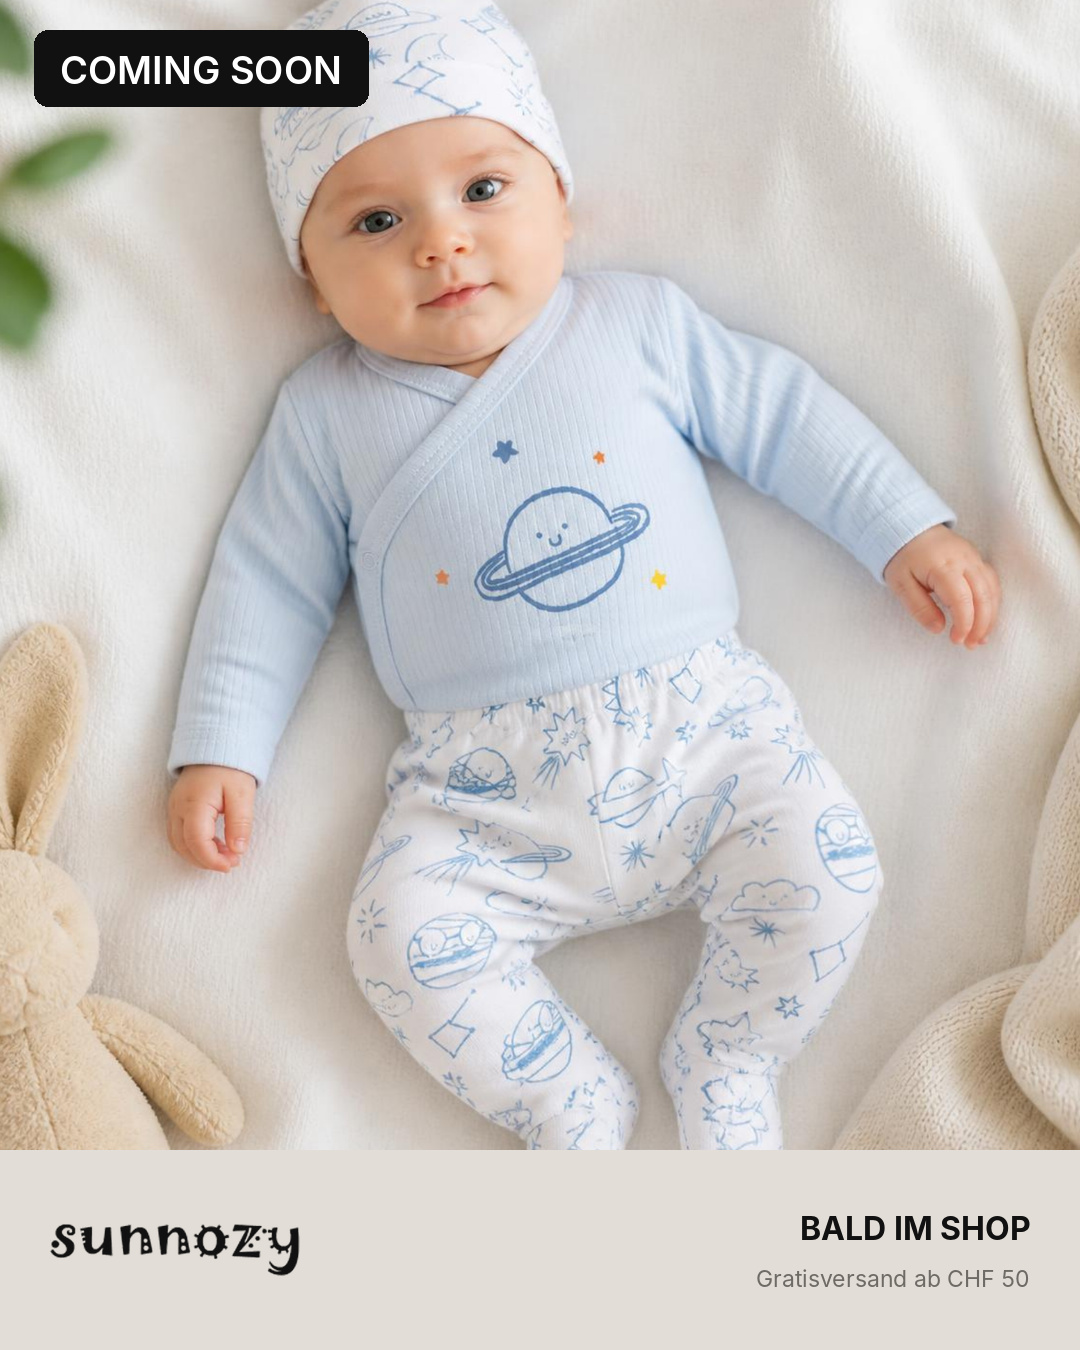
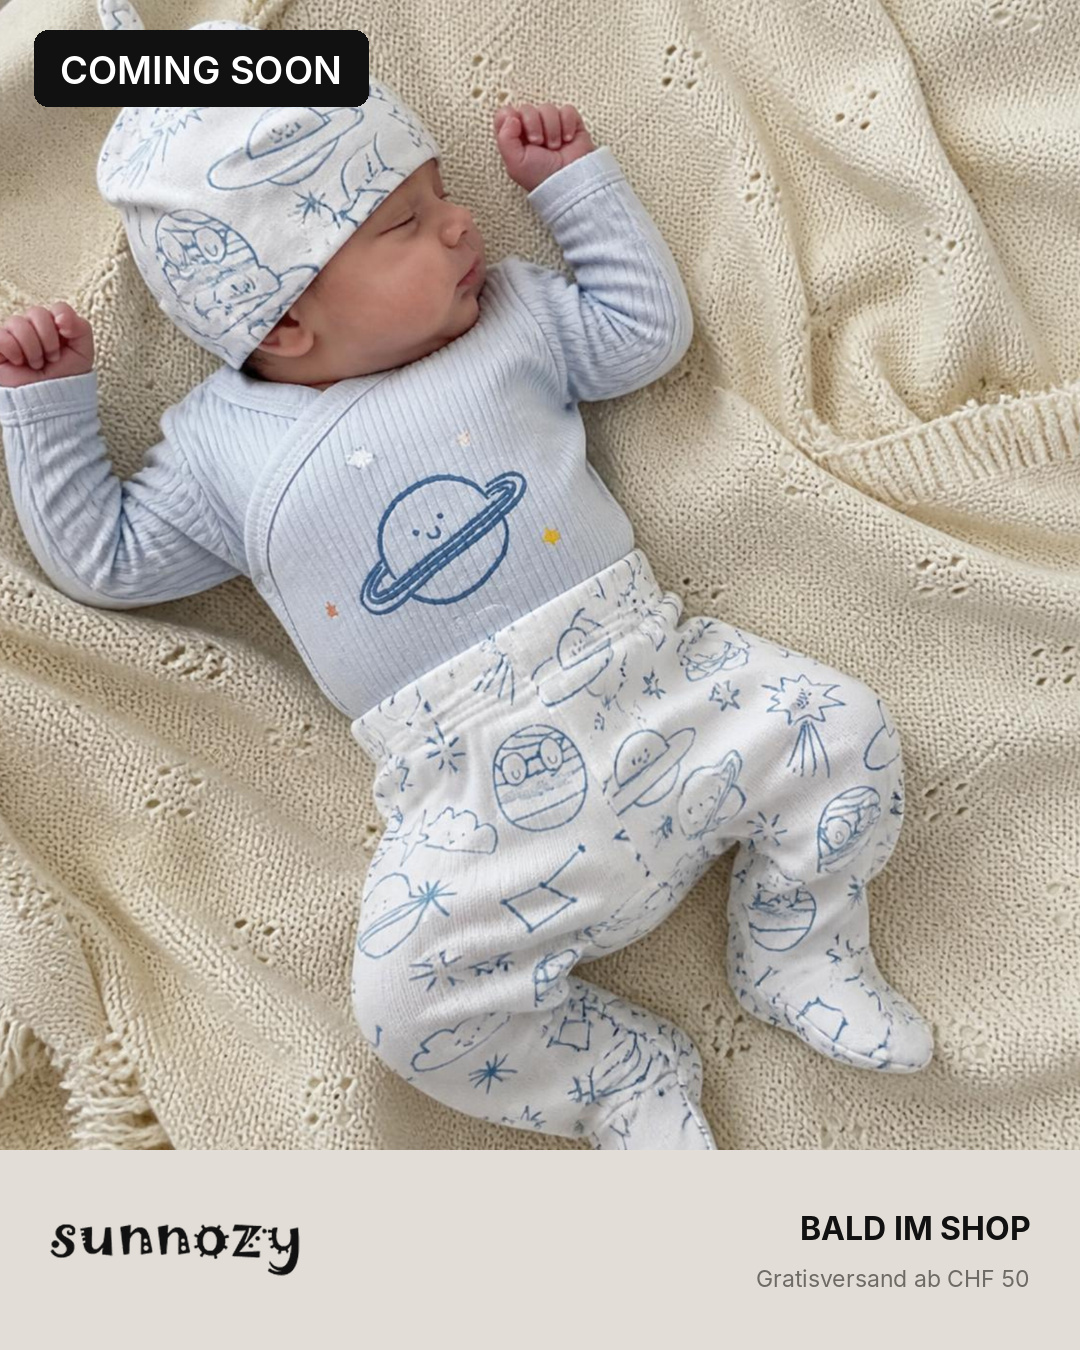
Coming soon: Baby-Fotos im Handyfoto-Stil (Pinterest-Vorlagen) für alle 9 Sets, Stilvorlagen gespeichert, Upload-Abgleich
Claude-Session: https://claude.ai/code/session_01Mcsz2CcqhytaxPLftYR6o2

diff --git a/sunnozy-content/posts/coming-soon/originalFotos/README.md b/sunnozy-content/posts/coming-soon/originalFotos/README.md
@@ -53,3 +53,7 @@ Zu «Little Princess» Wickelbody-Set, Gerippt beige, «Sweet Home» und Kätzch
 | Dino «Cool Dude» creme, 6 Teile (Studio) | Kapuzentuch «Here comes trouble», Strampler, Body, Fusshose, Dino-Mütze, Lätzchen |
 | Bauernhof «Happy Baby», 7 Teile (gibt es schon als `set_bauernhof`) | Kapuzentuch, Body, Strampler, Knotenmütze, Rassel Kuh, Fäustlinge, Lätzchen «Hi Friends» |
 | Hase lila «little and cute», 6 Teile (Studio) | Kapuzentuch mit Spitze, Strampler mit Spitzenkragen, Body lila, Fusshose, Knotenmütze, Lätzchen |
+
+## Abgleich vom 21.10.2026
+
+Alle Fotos, die als Datei bei mir angekommen sind, liegen auf GitHub (hier, in `../../produktfotos-set-praesentation/original/`, `../../paket-10-produkte/original/` und `../../paket-18-baby-alltag-2/original/`). Nicht auf GitHub sind nur die Fotos, die während einer laufenden Antwort kamen (Liste oben), plus Bildschirmaufnahmen und Referenz-Screenshots. Die Baby-Vorlagen im Handyfoto-Stil liegen jetzt in `assets/referenz-baby-handyfoto/`.

diff --git a/sunnozy-content/posts/coming-soon/blumen-musselin/README.md b/sunnozy-content/posts/coming-soon/blumen-musselin/README.md
@@ -10,7 +10,7 @@
 | `ads/` | Meta-Anzeige 1:1 (Karussell) und 9:16 (Story/Reels) im Stil der Erstausstattungs-Anzeigen, Etikett «Coming soon», «Bald im Shop» |
 
 | `praesentation/` | Holzbügel-Präsentation im Stil der Shop-Hauptbilder, 2048 px, mit und ohne Logo (KI) |
-| `instagram/*_baby_*` | Baby im Set, 4:5, ohne Text und mit Etikett «Coming soon» (KI) |
+| `instagram/*_baby_*` | Baby im Set, 4:5, im Handyfoto-Stil (von oben, Laken oder Strickdecke, Tageslicht, wie Pinterest), ohne Text und mit Etikett «Coming soon» (KI) |
 | `ads/*_meta_baby_4x5.jpg` | Meta-Feed 4:5 mit Baby-Foto, «Coming soon», «Bald im Shop» (KI) |
 
 **KI-Bilder prüfen:** Präsentation, Baby-Fotos und das KI-Flatlay sind mit Canva-KI aus dem echten Foto erstellt. Prints, Schriften und Farben mit dem echten Set vergleichen. Beim Posten der Baby-Fotos auf Instagram/Facebook «Mit KI erstellt» einschalten. `shop/` und `marktplatz/` der Flatlay-Sets zeigen das echte Foto.

diff --git a/sunnozy-content/posts/coming-soon/born-in-2027-rosa/README.md b/sunnozy-content/posts/coming-soon/born-in-2027-rosa/README.md
@@ -10,7 +10,7 @@
 | `ads/` | Meta-Anzeige 1:1 (Karussell) und 9:16 (Story/Reels) im Stil der Erstausstattungs-Anzeigen, Etikett «Coming soon», «Bald im Shop» |
 
 | `praesentation/` | Holzbügel-Präsentation im Stil der Shop-Hauptbilder, 2048 px, mit und ohne Logo (KI) |
-| `instagram/*_baby_*` | Baby im Set, 4:5, ohne Text und mit Etikett «Coming soon» (KI) |
+| `instagram/*_baby_*` | Baby im Set, 4:5, im Handyfoto-Stil (von oben, Laken oder Strickdecke, Tageslicht, wie Pinterest), ohne Text und mit Etikett «Coming soon» (KI) |
 | `ads/*_meta_baby_4x5.jpg` | Meta-Feed 4:5 mit Baby-Foto, «Coming soon», «Bald im Shop» (KI) |
 
 **KI-Bilder prüfen:** Präsentation, Baby-Fotos und das KI-Flatlay sind mit Canva-KI aus dem echten Foto erstellt. Prints, Schriften und Farben mit dem echten Set vergleichen. Beim Posten der Baby-Fotos auf Instagram/Facebook «Mit KI erstellt» einschalten. `shop/` und `marktplatz/` der Flatlay-Sets zeigen das echte Foto.

diff --git a/sunnozy-content/posts/coming-soon/eisbaer-taupe/README.md b/sunnozy-content/posts/coming-soon/eisbaer-taupe/README.md
@@ -10,7 +10,7 @@
 | `ads/` | Meta-Anzeige 1:1 (Karussell) und 9:16 (Story/Reels) im Stil der Erstausstattungs-Anzeigen, Etikett «Coming soon», «Bald im Shop» |
 
 | `praesentation/` | Holzbügel-Präsentation im Stil der Shop-Hauptbilder, 2048 px, mit und ohne Logo (KI) |
-| `instagram/*_baby_*` | Baby im Set, 4:5, ohne Text und mit Etikett «Coming soon» (KI) |
+| `instagram/*_baby_*` | Baby im Set, 4:5, im Handyfoto-Stil (von oben, Laken oder Strickdecke, Tageslicht, wie Pinterest), ohne Text und mit Etikett «Coming soon» (KI) |
 | `ads/*_meta_baby_4x5.jpg` | Meta-Feed 4:5 mit Baby-Foto, «Coming soon», «Bald im Shop» (KI) |
 
 **KI-Bilder prüfen:** Präsentation, Baby-Fotos und das KI-Flatlay sind mit Canva-KI aus dem echten Foto erstellt. Prints, Schriften und Farben mit dem echten Set vergleichen. Beim Posten der Baby-Fotos auf Instagram/Facebook «Mit KI erstellt» einschalten. `shop/` und `marktplatz/` der Flatlay-Sets zeigen das echte Foto.

diff --git a/sunnozy-content/posts/coming-soon/gaensebluemchen-beautiful/README.md b/sunnozy-content/posts/coming-soon/gaensebluemchen-beautiful/README.md
@@ -10,7 +10,7 @@
 | `ads/` | Meta-Anzeige 1:1 (Karussell) und 9:16 (Story/Reels) im Stil der Erstausstattungs-Anzeigen, Etikett «Coming soon», «Bald im Shop» |
 
 | `praesentation/` | Holzbügel-Präsentation im Stil der Shop-Hauptbilder, 2048 px, mit und ohne Logo (KI) |
-| `instagram/*_baby_*` | Baby im Set, 4:5, ohne Text und mit Etikett «Coming soon» (KI) |
+| `instagram/*_baby_*` | Baby im Set, 4:5, im Handyfoto-Stil (von oben, Laken oder Strickdecke, Tageslicht, wie Pinterest), ohne Text und mit Etikett «Coming soon» (KI) |
 | `ads/*_meta_baby_4x5.jpg` | Meta-Feed 4:5 mit Baby-Foto, «Coming soon», «Bald im Shop» (KI) |
 
 **KI-Bilder prüfen:** Präsentation, Baby-Fotos und das KI-Flatlay sind mit Canva-KI aus dem echten Foto erstellt. Prints, Schriften und Farben mit dem echten Set vergleichen. Beim Posten der Baby-Fotos auf Instagram/Facebook «Mit KI erstellt» einschalten. `shop/` und `marktplatz/` der Flatlay-Sets zeigen das echte Foto.

diff --git a/sunnozy-content/posts/coming-soon/little-bear-rosa/README.md b/sunnozy-content/posts/coming-soon/little-bear-rosa/README.md
@@ -10,7 +10,7 @@
 | `ads/` | Meta-Anzeige 1:1 (Karussell) und 9:16 (Story/Reels) im Stil der Erstausstattungs-Anzeigen, Etikett «Coming soon», «Bald im Shop» |
 
 | `praesentation/` | Holzbügel-Präsentation im Stil der Shop-Hauptbilder, 2048 px, mit und ohne Logo (KI) |
-| `instagram/*_baby_*` | Baby im Set, 4:5, ohne Text und mit Etikett «Coming soon» (KI) |
+| `instagram/*_baby_*` | Baby im Set, 4:5, im Handyfoto-Stil (von oben, Laken oder Strickdecke, Tageslicht, wie Pinterest), ohne Text und mit Etikett «Coming soon» (KI) |
 | `ads/*_meta_baby_4x5.jpg` | Meta-Feed 4:5 mit Baby-Foto, «Coming soon», «Bald im Shop» (KI) |
 
 **KI-Bilder prüfen:** Präsentation, Baby-Fotos und das KI-Flatlay sind mit Canva-KI aus dem echten Foto erstellt. Prints, Schriften und Farben mit dem echten Set vergleichen. Beim Posten der Baby-Fotos auf Instagram/Facebook «Mit KI erstellt» einschalten. `shop/` und `marktplatz/` der Flatlay-Sets zeigen das echte Foto.

diff --git a/sunnozy-content/posts/coming-soon/waldbaer-creme/README.md b/sunnozy-content/posts/coming-soon/waldbaer-creme/README.md
@@ -10,7 +10,7 @@
 | `ads/` | Meta-Anzeige 1:1 (Karussell) und 9:16 (Story/Reels) im Stil der Erstausstattungs-Anzeigen, Etikett «Coming soon», «Bald im Shop» |
 
 | `praesentation/` | Holzbügel-Präsentation im Stil der Shop-Hauptbilder, 2048 px, mit und ohne Logo (KI) |
-| `instagram/*_baby_*` | Baby im Set, 4:5, ohne Text und mit Etikett «Coming soon» (KI) |
+| `instagram/*_baby_*` | Baby im Set, 4:5, im Handyfoto-Stil (von oben, Laken oder Strickdecke, Tageslicht, wie Pinterest), ohne Text und mit Etikett «Coming soon» (KI) |
 | `ads/*_meta_baby_4x5.jpg` | Meta-Feed 4:5 mit Baby-Foto, «Coming soon», «Bald im Shop» (KI) |
 
 **KI-Bilder prüfen:** Präsentation, Baby-Fotos und das KI-Flatlay sind mit Canva-KI aus dem echten Foto erstellt. Prints, Schriften und Farben mit dem echten Set vergleichen. Beim Posten der Baby-Fotos auf Instagram/Facebook «Mit KI erstellt» einschalten. `shop/` und `marktplatz/` der Flatlay-Sets zeigen das echte Foto.

diff --git a/sunnozy-content/posts/coming-soon/weltall-hellblau/README.md b/sunnozy-content/posts/coming-soon/weltall-hellblau/README.md
@@ -10,7 +10,7 @@
 | `ads/` | Meta-Anzeige 1:1 (Karussell) und 9:16 (Story/Reels) im Stil der Erstausstattungs-Anzeigen, Etikett «Coming soon», «Bald im Shop» |
 
 | `praesentation/` | Holzbügel-Präsentation im Stil der Shop-Hauptbilder, 2048 px, mit und ohne Logo (KI) |
-| `instagram/*_baby_*` | Baby im Set, 4:5, ohne Text und mit Etikett «Coming soon» (KI) |
+| `instagram/*_baby_*` | Baby im Set, 4:5, im Handyfoto-Stil (von oben, Laken oder Strickdecke, Tageslicht, wie Pinterest), ohne Text und mit Etikett «Coming soon» (KI) |
 | `ads/*_meta_baby_4x5.jpg` | Meta-Feed 4:5 mit Baby-Foto, «Coming soon», «Bald im Shop» (KI) |
 
 **KI-Bilder prüfen:** Präsentation, Baby-Fotos und das KI-Flatlay sind mit Canva-KI aus dem echten Foto erstellt. Prints, Schriften und Farben mit dem echten Set vergleichen. Beim Posten der Baby-Fotos auf Instagram/Facebook «Mit KI erstellt» einschalten. `shop/` und `marktplatz/` der Flatlay-Sets zeigen das echte Foto.

diff --git a/sunnozy-content/posts/coming-soon/README.md b/sunnozy-content/posts/coming-soon/README.md
@@ -15,7 +15,7 @@
 | `i-love-you-dad/` | «I love you Dad» Hellblau, 3 Teile | Shop, Präsentation, Marktplatz, Instagram, Baby-Fotos, Meta-Ads |
 | `originalFotos/` | Lieferantenfotos aller neuen Sets | Liste im README |
 
-`uebersicht_neue_sets.jpg` zeigt Shop-Bild, Instagram-Post, Meta-Anzeige und Marktplatz-Bild der 7 neuen Sets, `uebersicht_ki.jpg` Präsentation, Baby-Post und Baby-Anzeige.
+`uebersicht_neue_sets.jpg` zeigt Shop-Bild, Instagram-Post, Meta-Anzeige und Marktplatz-Bild der 7 neuen Sets, `uebersicht_ki.jpg` Präsentation, Baby-Post und Baby-Anzeige, `uebersicht_baby_handyfoto.jpg` die Baby-Fotos im Handyfoto-Stil (Stilvorlagen in `assets/referenz-baby-handyfoto/`).
 
 In jedem Ordner: `original/` mit den Baby-Clips, die Videos, Titelbilder (`*_standbild.jpg`), `uebersicht.jpg` und ein README mit Bildunterschrift und Prüfpunkten. Sobald ein Set im Shop ist, die Videos mit Preis neu erzeugen (Befehl im README des Sets).
 

diff --git a/sunnozy-content/posts/coming-soon/i-love-you-dad/README.md b/sunnozy-content/posts/coming-soon/i-love-you-dad/README.md
@@ -7,7 +7,7 @@
 | `shop/` | Shop-Hauptbild 2048×2048 (Holzbügel-Präsentation) mit und ohne sunnozy-Logo |
 | `praesentation/` | dieselbe Präsentation, mit und ohne Logo |
 | `marktplatz/` | Hauptbild Galaxus/Amazon auf Reinweiss 2000×2000 |
-| `instagram/` | Feed 4:5 und Story 9:16 mit «Coming soon», Baby-Foto 4:5 ohne Text und mit Etikett «Coming soon» |
+| `instagram/` | Feed 4:5 und Story 9:16 mit «Coming soon», Baby-Foto 4:5 im Handyfoto-Stil ohne Text und mit Etikett «Coming soon» |
 | `ads/` | Meta-Anzeigen 1:1, 9:16 und 4:5 mit Baby-Foto, «Coming soon», «Bald im Shop» |
 
 **KI-Bilder prüfen:** Prints und Schriften mit dem echten Set vergleichen. Beim Posten der Baby-Fotos «Mit KI erstellt» einschalten.

diff --git a/sunnozy-content/posts/coming-soon/little-princess-wickelbody/README.md b/sunnozy-content/posts/coming-soon/little-princess-wickelbody/README.md
@@ -7,7 +7,7 @@
 | `shop/` | Shop-Hauptbild 2048×2048 (Holzbügel-Präsentation) mit und ohne sunnozy-Logo |
 | `praesentation/` | dieselbe Präsentation, mit und ohne Logo |
 | `marktplatz/` | Hauptbild Galaxus/Amazon auf Reinweiss 2000×2000 |
-| `instagram/` | Feed 4:5 und Story 9:16 mit «Coming soon», Baby-Foto 4:5 ohne Text und mit Etikett «Coming soon» |
+| `instagram/` | Feed 4:5 und Story 9:16 mit «Coming soon», Baby-Foto 4:5 im Handyfoto-Stil ohne Text und mit Etikett «Coming soon» |
 | `ads/` | Meta-Anzeigen 1:1, 9:16 und 4:5 mit Baby-Foto, «Coming soon», «Bald im Shop» |
 
 **KI-Bilder prüfen:** Prints und Schriften mit dem echten Set vergleichen. Beim Posten der Baby-Fotos «Mit KI erstellt» einschalten.

diff --git a/sunnozy-content/assets/referenz-baby-handyfoto/README.md b/sunnozy-content/assets/referenz-baby-handyfoto/README.md
@@ -1,0 +1,5 @@
+# Stilvorlagen Baby-Fotos (Handyfoto, Pinterest-Stil)
+
+Deine früher geschickten Vorlagen: Babys von oben mit dem Handy fotografiert, auf zerknittertem weissem Laken oder Strickdecke, Tageslicht, kein Studio-Look. Sie dienen als Stilvorlage für die KI-Baby-Fotos (in Canva als zweites Referenzbild, z.B. `referenz_11.jpg` für weisses Laken und `referenz_06.jpg` für Strickdecke).
+
+Nur als Vorlage verwenden, nicht posten (fremde Fotos).
